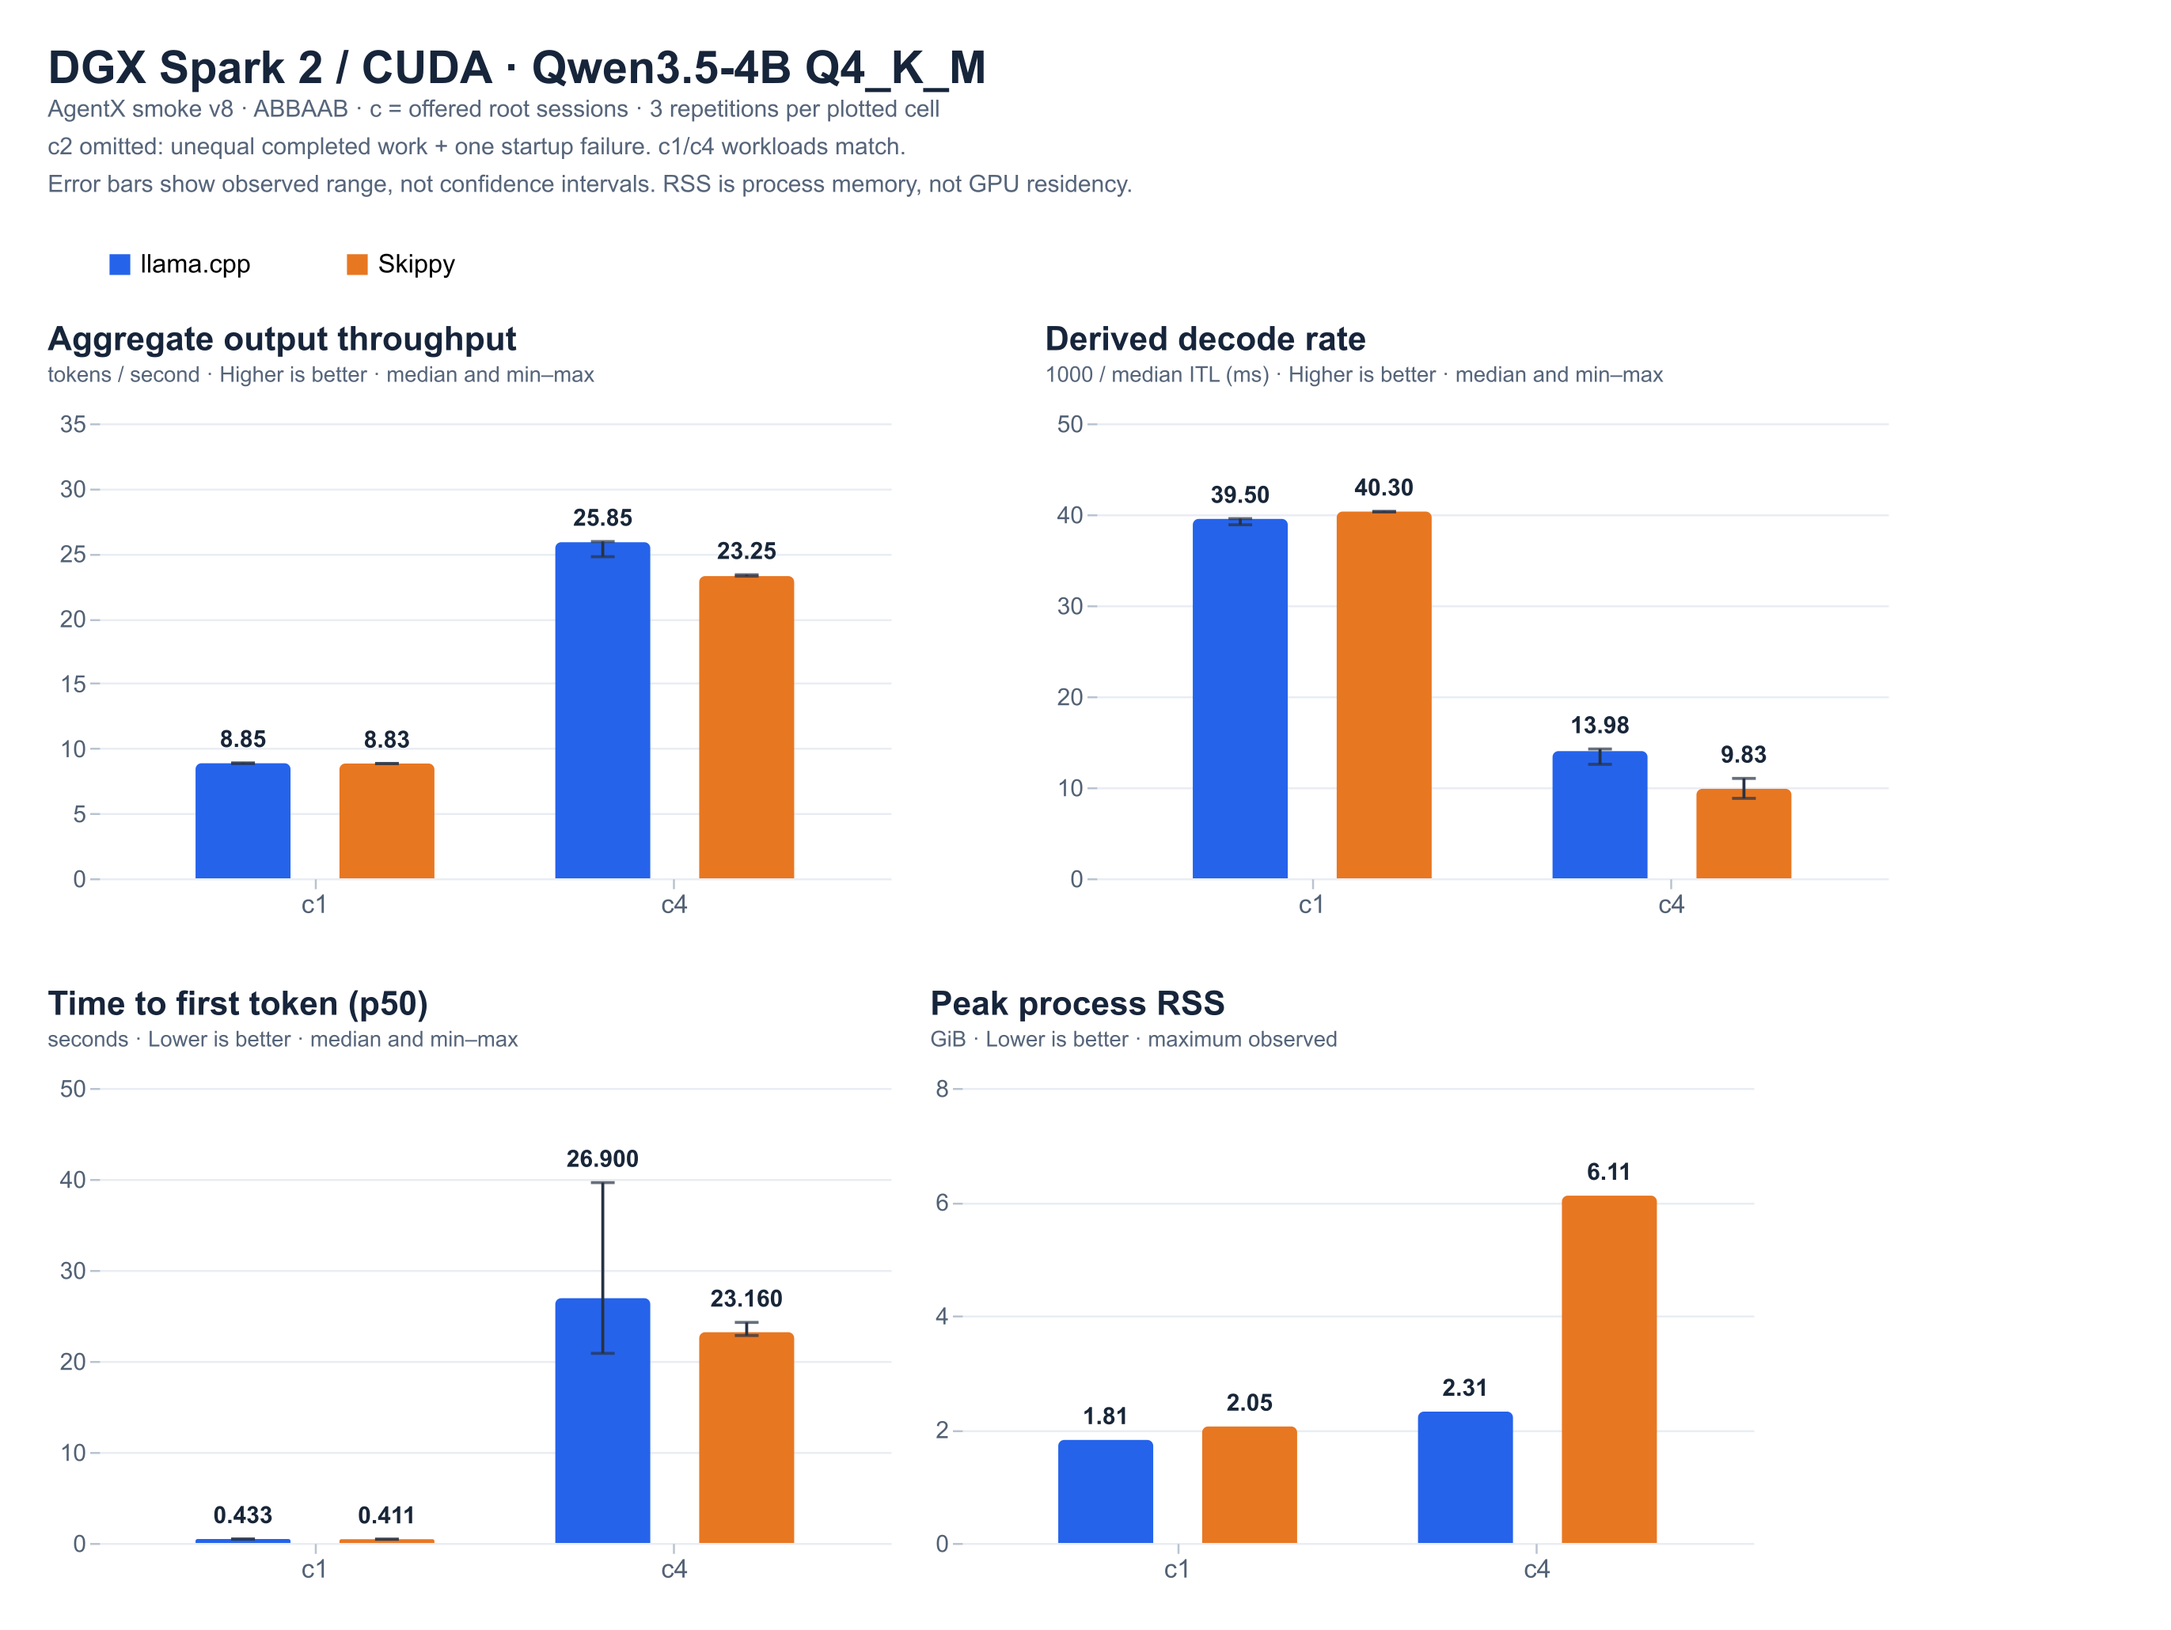
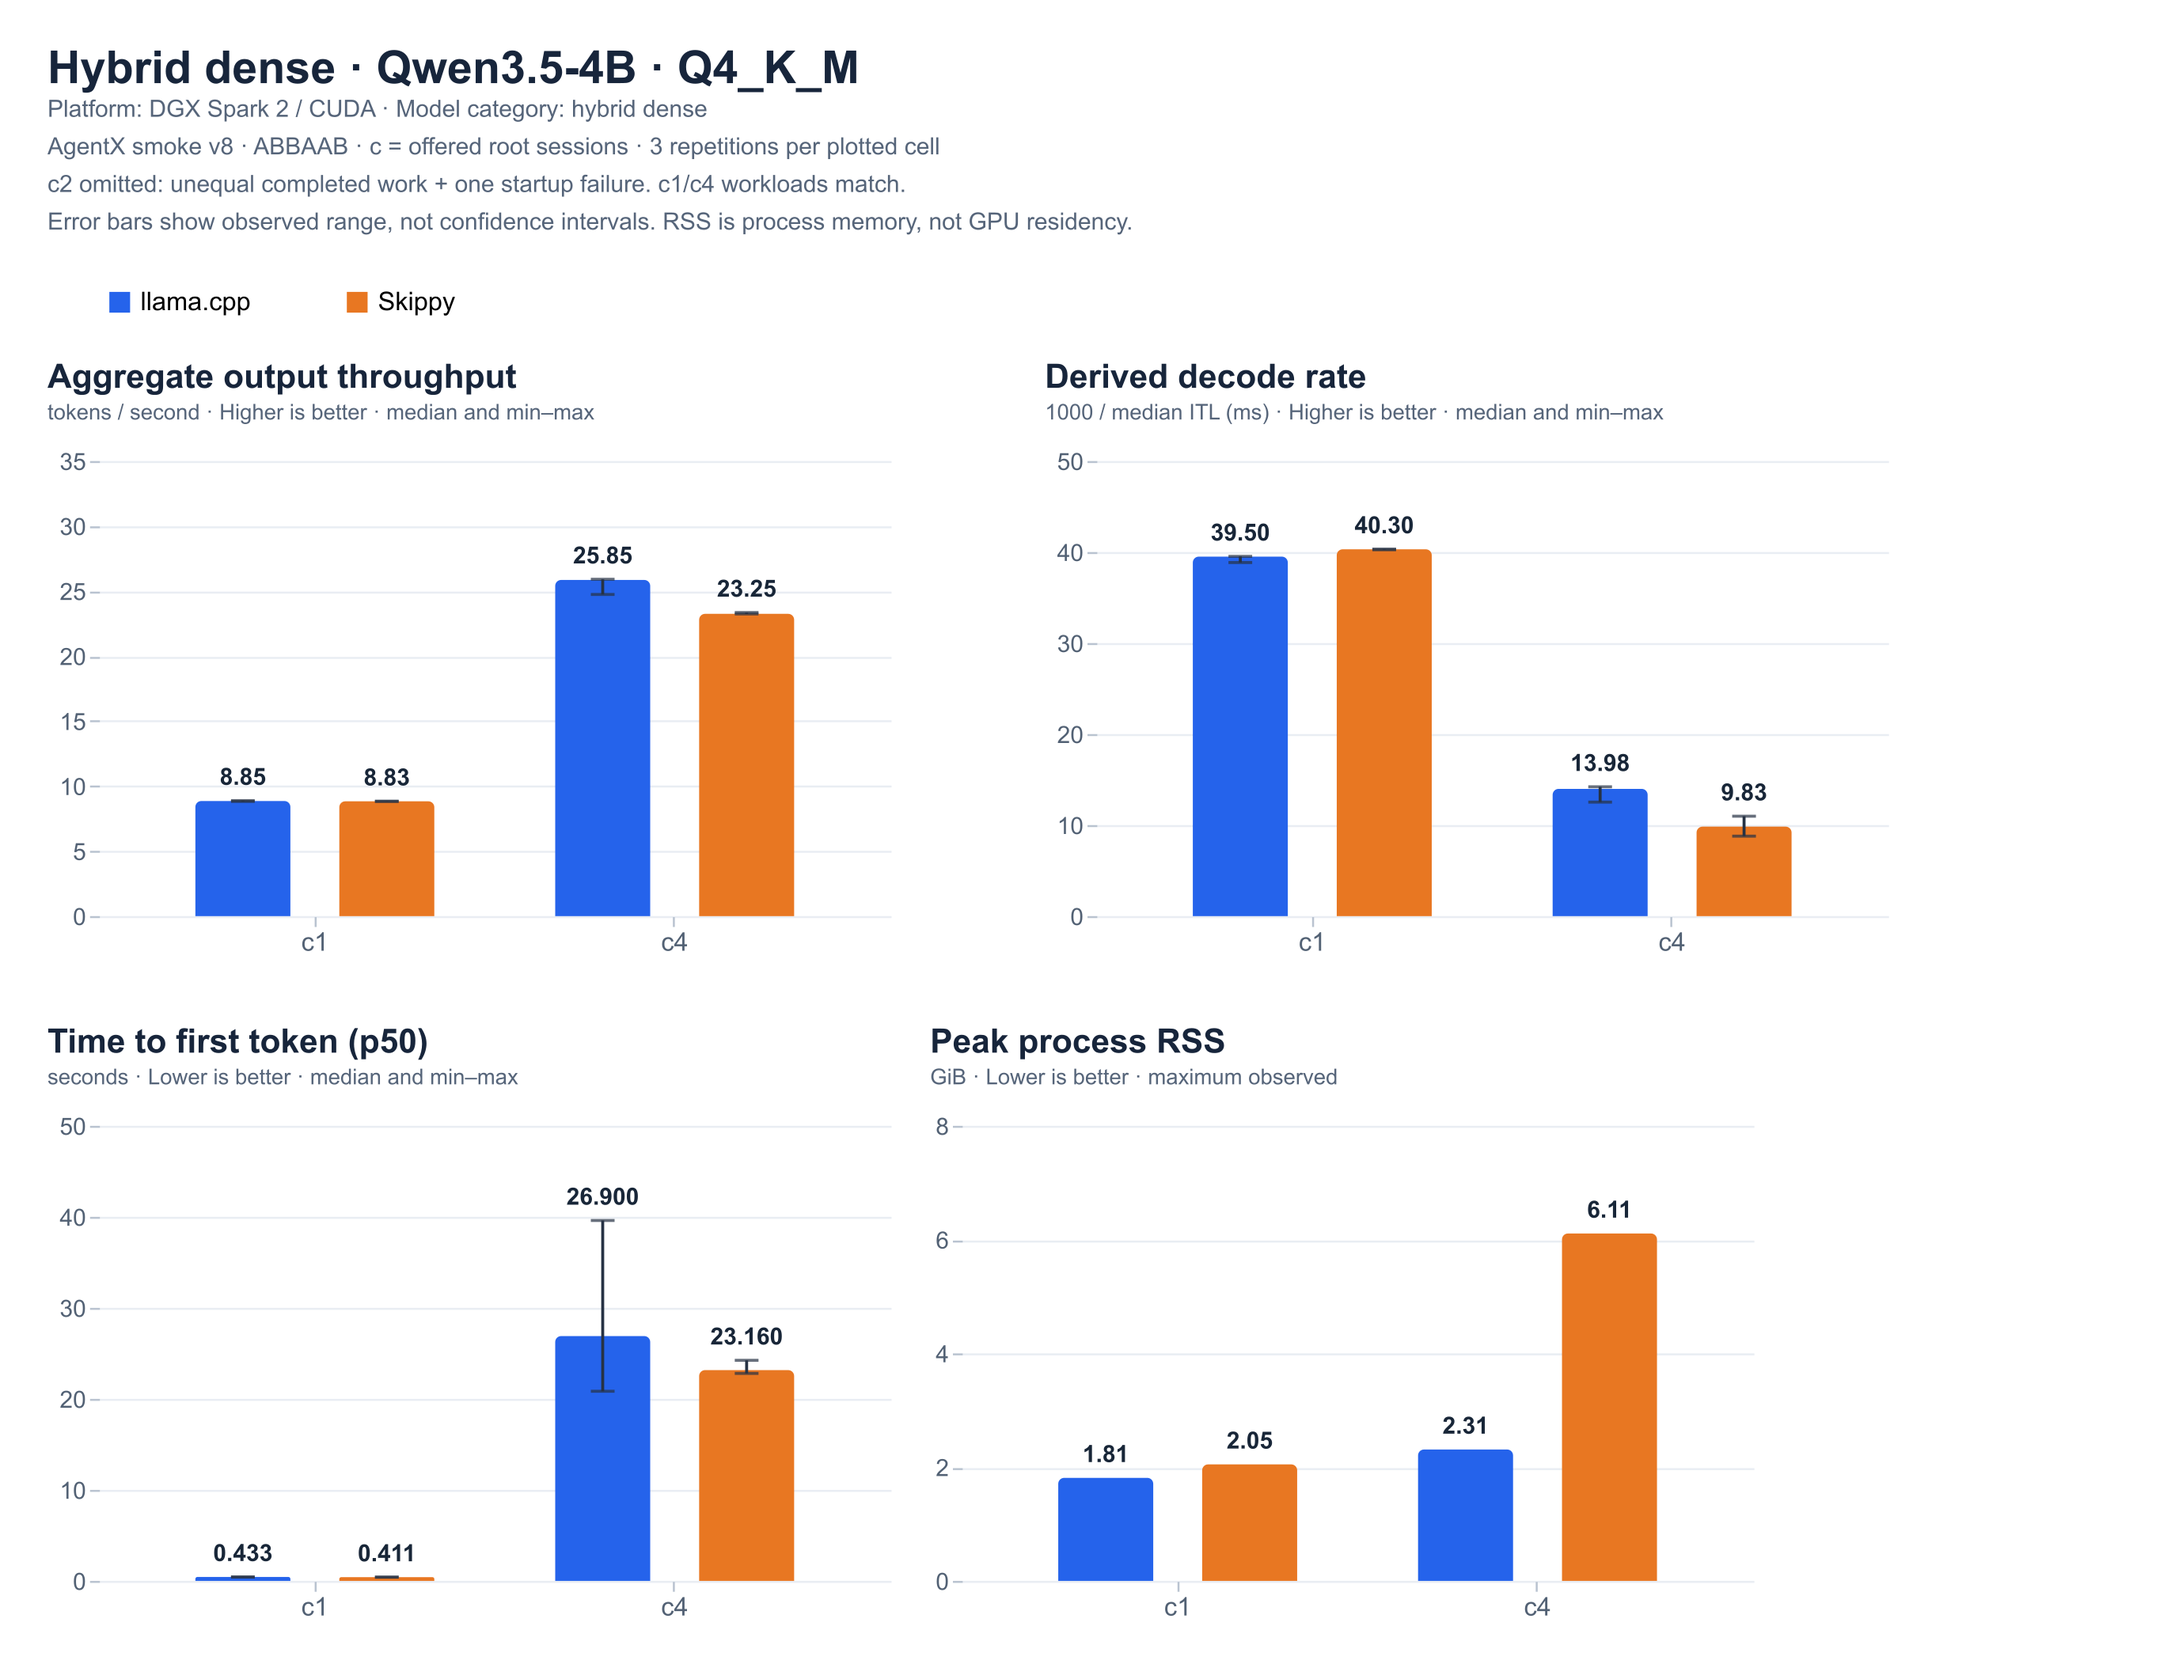
docs: label AgentX charts by category and model

diff --git a/skippy/docs/assets/pr2463-agentx-smoke-v8/README.md b/skippy/docs/assets/pr2463-agentx-smoke-v8/README.md
@@ -1,6 +1,12 @@
-# AgentX smoke v8 comparison charts
+# AgentX smoke v8 — Hybrid dense: Qwen3.5-4B
 
-Qwen3.5-4B Q4_K_M, three same-host repetitions per engine at offered root-session
+**Category: hybrid dense. Model: Qwen3.5-4B. Quantization: Q4_K_M.**
+
+These charts cover only the hybrid dense model in the four-model benchmark
+matrix. Dense (Qwen3-4B-Instruct-2507), MoE (Qwen3-Coder-30B-A3B) and hybrid MoE
+(Qwen3.5-35B-A3B) have historical results and await a comparable rerun.
+
+Three same-host repetitions per engine at offered root-session
 concurrency 1/2/4, in llama/Skippy/Skippy/llama/llama/Skippy order.
 These charts document the campaign in [PR #2463](https://github.com/Mesh-LLM/mesh-llm/pull/2463).
 They are local comparative smokes, not an official AgentX leaderboard submission.
